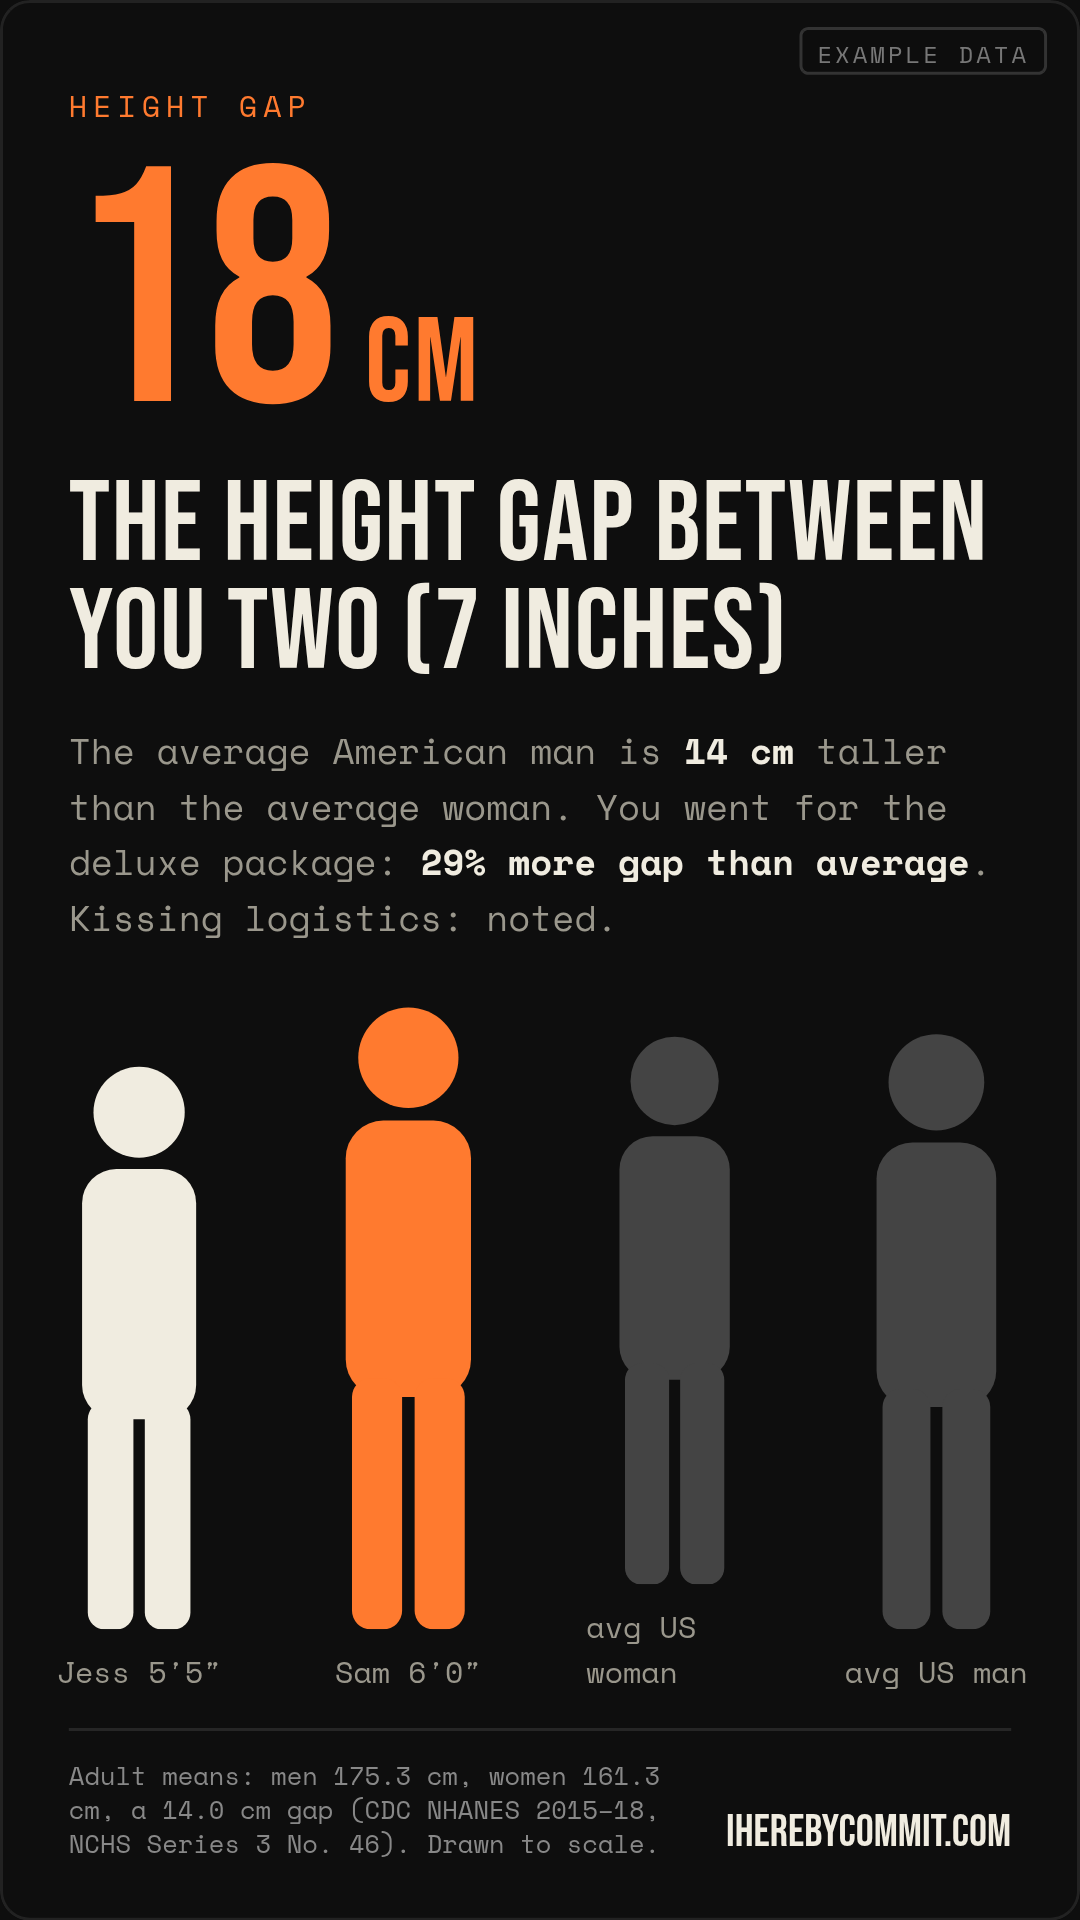
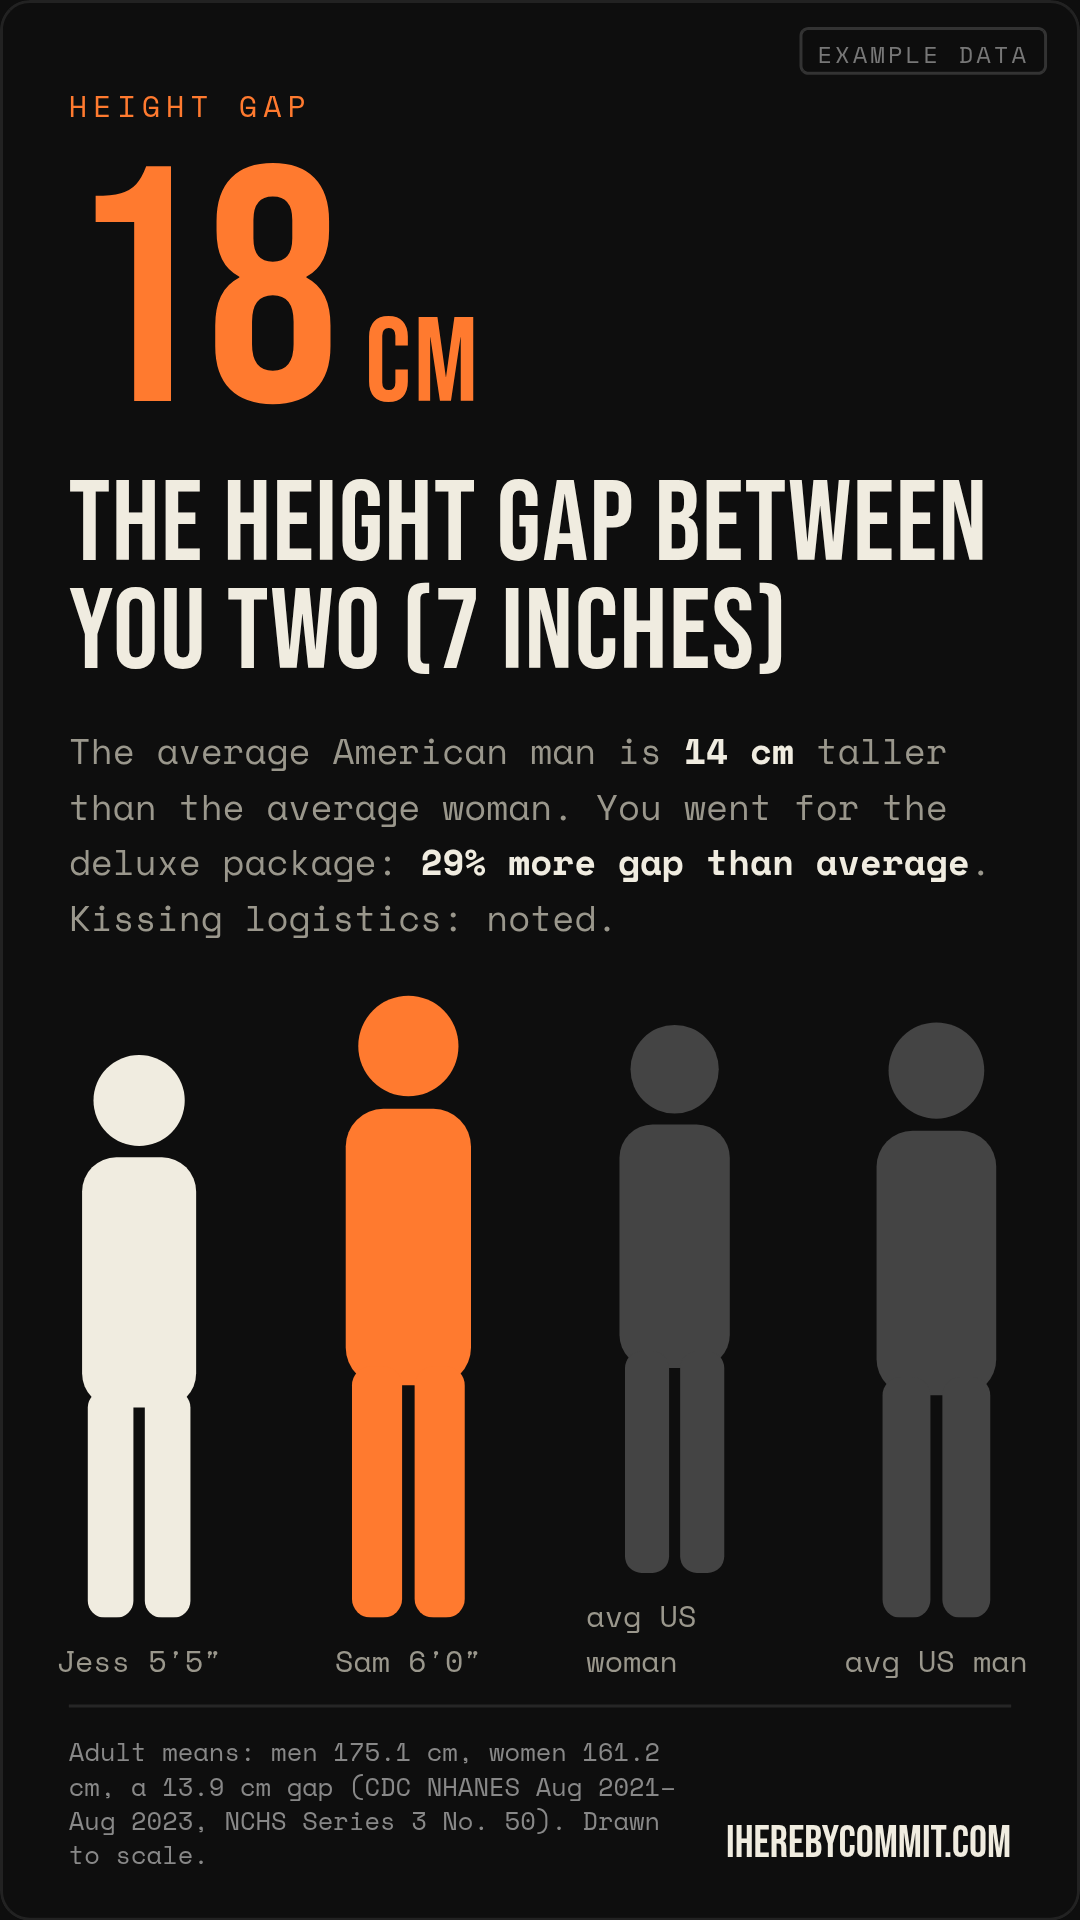
Waitlist reveal v3: use latest NHANES Aug 2021-Aug 2023 (Series 3 No. 50) height numbers

diff --git a/waitlist-reveal-v3/index.html b/waitlist-reveal-v3/index.html
@@ -140,12 +140,12 @@ singles: [
    <div class="sub">That's <b>#4 of 37 big U.S. metros</b>. Only San Jose (166), Seattle (143) and Denver (142) are more lopsided. The U.S. average is 127. <b>You picked a good city.</b></div>
    <div class="viz">${dots(139,100)}</div>
    ${foot('Census ACS 5-yr 2020–24, table B12002. "Single" = never married. Big metros = 1.5M+ adults.')}</div>`},
- {id:'s3', share:'My height filter (5\u201910\u2033–6\u20194\u2033) fits only 43% of US men in their 30s. Austin goes from 139 single men per 100 women to about 60. Worth it? Discuss.',
+ {id:'s3', share:'My height filter (5\u201910\u2033–6\u20194\u2033) fits only 42% of US men in their 30s. Austin goes from 139 single men per 100 women to about 58. Worth it? Discuss.',
   html:`${EX}<div class="inner"><div class="kicker">Height math</div>
-   <div class="big">43%</div><h2 class="head">of U.S. men in their 30s fit your 5′10″–6′4″ filter</h2>
-   <div class="sub">Your filter quietly deletes <b>57 of every 100 men</b> in your age range. Apply it to Austin and 139 single men per 100 single women becomes <b>about 60</b>. Across all adult men it's just 37%. Still here? Brave.</div>
-   <div class="viz">${dotsFilter(139,60)}</div>
-   ${foot('CDC NHANES 2015–18 measured heights (NCHS Series 3 No. 46), men 30–39, interpolated between published percentiles: 42.9% (all men 20+: 36.7%). 139 × 0.429 ≈ 60.')}</div>`},
+   <div class="big">42%</div><h2 class="head">of U.S. men in their 30s fit your 5′10″–6′4″ filter</h2>
+   <div class="sub">Your filter quietly deletes <b>58 of every 100 men</b> in your age range. Apply it to Austin and 139 single men per 100 single women becomes <b>about 58</b>. Across all adult men it's just 36%. Still here? Brave.</div>
+   <div class="viz">${dotsFilter(139,58)}</div>
+   ${foot('CDC NHANES Aug 2021–Aug 2023 measured heights (NCHS Series 3 No. 50), men 30–39, interpolated between published percentiles: 41.7% (all men 20+: 36.0%). 139 × 0.417 ≈ 58.')}</div>`},
  {id:'s4', share:'57% of women 30–34 in my neighborhood have never married. More than 82% of US ZIP codes. I\u2019m not behind, I\u2019m the local majority.',
   html:`${EX}<div class="inner"><div class="kicker">Your neighborhood</div>
    <div class="big">57%</div><h2 class="head">of women 30–34 near you have never married</h2>
@@ -200,7 +200,7 @@ couples: [
    <div class="big">18<small> cm</small></div><h2 class="head">the height gap between you two (7 inches)</h2>
    <div class="sub">The average American man is <b>14 cm</b> taller than the average woman. You went for the deluxe package: <b>29% more gap than average</b>. Kissing logistics: noted.</div>
    <div class="viz"><div class="sil">${person(165,"Jess 5′5″","#f0ece0")}${person(183,"Sam 6′0″","var(--accent)")}${person(161,"avg US woman","#444")}${person(175,"avg US man","#444")}</div></div>
-   ${foot('Adult means: men 175.3 cm, women 161.3 cm, a 14.0 cm gap (CDC NHANES 2015–18, NCHS Series 3 No. 46). Drawn to scale.')}</div>`},
+   ${foot('Adult means: men 175.1 cm, women 161.2 cm, a 13.9 cm gap (CDC NHANES Aug 2021–Aug 2023, NCHS Series 3 No. 50). Drawn to scale.')}</div>`},
  {id:'c3', share:'We said \u201cI do\u201d at 32 and 34. New York\u2019s median first-marriage ages are 30.4 and 31.8. Right on the city schedule.',
   html:`${EX}<div class="inner"><div class="kicker">Marriage age</div>
    <div class="big">32 <small>&</small> 34</div><h2 class="head">your ages when you said "I do"</h2>
